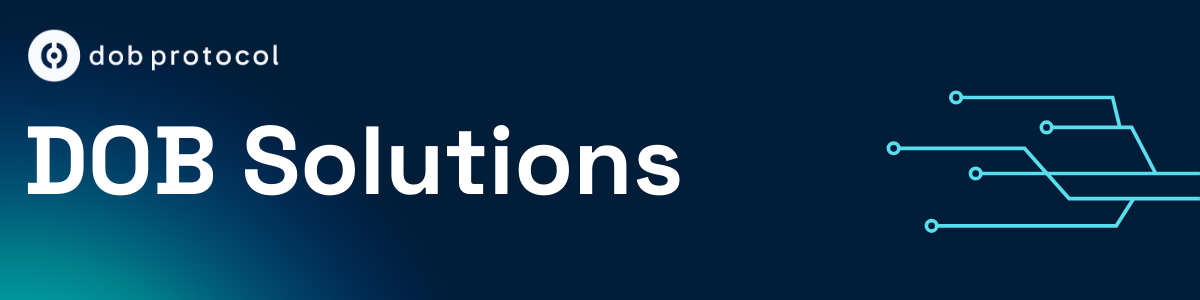
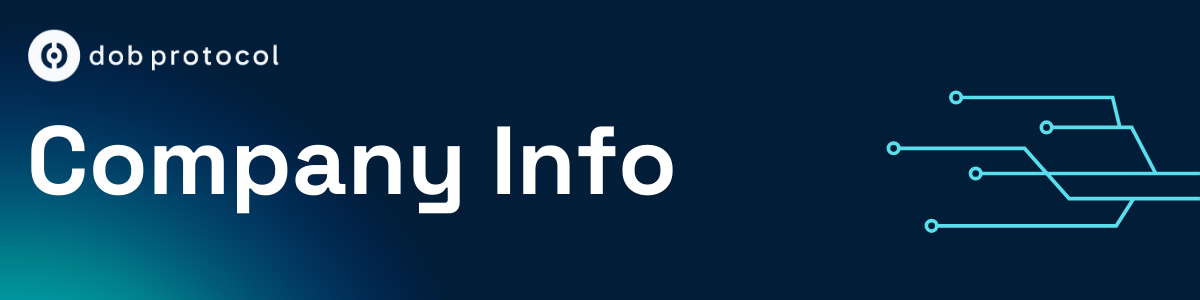
GITBOOK-106: No subject

Changed region(s): [[0.0, 0.42, 0.5858, 0.72]]

diff --git a/investor-data-room/company-info.md b/investor-data-room/company-info.md
@@ -4,6 +4,8 @@ icon: building-magnifying-glass
 
 # Company Info
 
+<figure><img src="../.gitbook/assets/Cópia (1).png" alt=""><figcaption></figcaption></figure>
+
 Dobprotocol connects real projects with global investors through simple, transparent, and compliant WEB3 infrastructure. A complete ecosystem of solutions for Real World Asset (RWA) tokenization.
 
 ***

diff --git a/investor-data-room/mission-vision-and-values.md b/investor-data-room/mission-vision-and-values.md
@@ -4,6 +4,8 @@ icon: diamonds-4
 
 # Mission, Vision and Values
 
+<figure><img src="../.gitbook/assets/Cópia (2).png" alt="Mission, Vision and Values"><figcaption></figcaption></figure>
+
 DOB Protocol was founded with a clear mission: democratize access to investments in real projects around the world.
 
 {% hint style="info" %}
